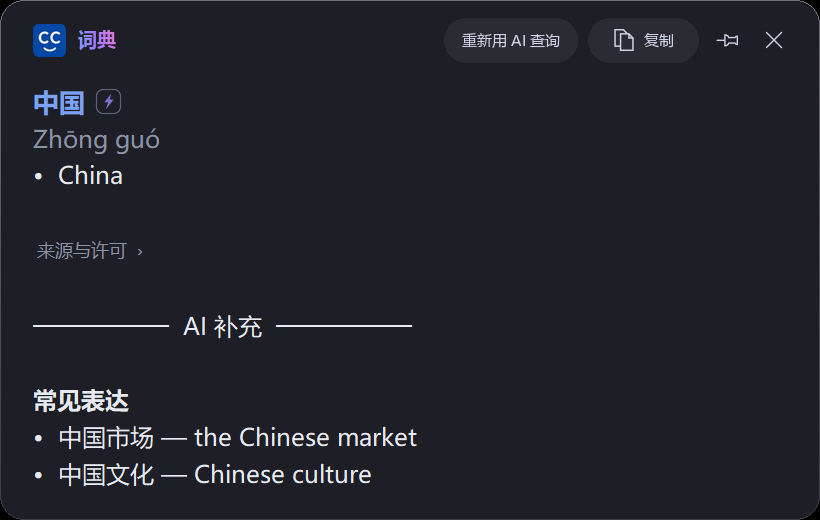
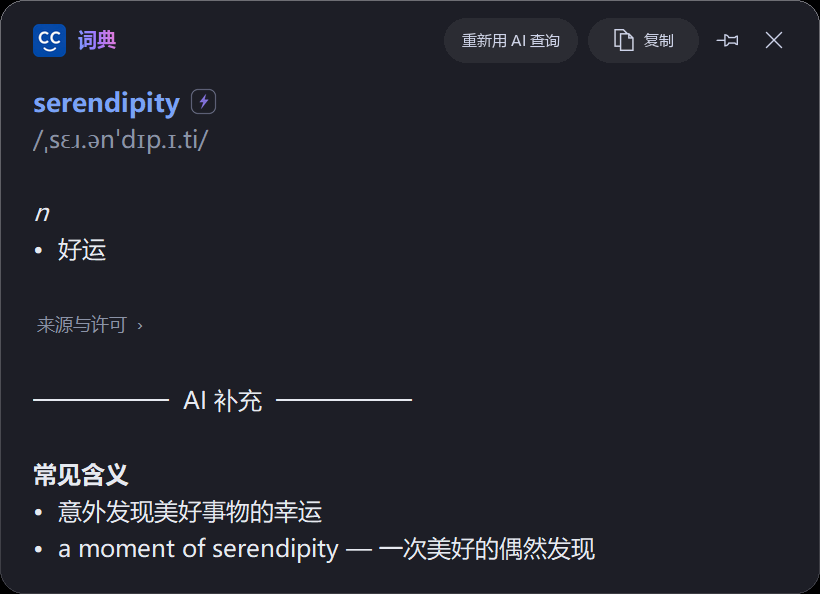
Show selection workflow in README hero

diff --git a/tools/capture_selection_hero.html b/tools/capture_selection_hero.html
@@ -1,0 +1,135 @@
+<!doctype html>
+<html lang="en">
+<head>
+  <meta charset="utf-8">
+  <meta name="viewport" content="width=device-width, initial-scale=1">
+  <title>CC Translate selection demo</title>
+  <style>
+    * { box-sizing: border-box; }
+    html, body {
+      width: 100%;
+      height: 100%;
+      margin: 0;
+      overflow: hidden;
+      font-family: "Segoe UI", Arial, sans-serif;
+      color: #172033;
+      background:
+        radial-gradient(circle at 15% 10%, #dce7ff 0, transparent 34%),
+        linear-gradient(135deg, #f7f9fd, #edf1f8);
+    }
+    .browser {
+      width: calc(100% - 72px);
+      height: calc(100% - 64px);
+      margin: 32px 36px;
+      overflow: hidden;
+      border: 1px solid #d8deea;
+      border-radius: 18px;
+      background: #fff;
+      box-shadow: 0 22px 60px rgba(37, 48, 76, .16);
+    }
+    .chrome {
+      height: 54px;
+      display: flex;
+      align-items: center;
+      gap: 8px;
+      padding: 0 18px;
+      border-bottom: 1px solid #e5e9f1;
+      background: #f6f8fb;
+    }
+    .dot { width: 11px; height: 11px; border-radius: 50%; background: #cfd5e0; }
+    .address {
+      width: 500px;
+      margin-left: 14px;
+      padding: 8px 15px;
+      border: 1px solid #dfe4ed;
+      border-radius: 9px;
+      color: #717b8e;
+      background: #fff;
+      font-size: 13px;
+    }
+    article {
+      width: 760px;
+      margin: 66px auto 0;
+    }
+    .eyebrow {
+      margin-bottom: 16px;
+      color: #5d6b85;
+      font-size: 14px;
+      font-weight: 600;
+      letter-spacing: .08em;
+      text-transform: uppercase;
+    }
+    h1 {
+      margin: 0 0 26px;
+      font-size: 42px;
+      line-height: 1.16;
+      letter-spacing: -.025em;
+    }
+    p {
+      margin: 0 0 22px;
+      color: #43506a;
+      font-size: 21px;
+      line-height: 1.65;
+    }
+    .selected {
+      padding: 2px 3px 4px;
+      color: #fff;
+      background: #356fe4;
+      border-radius: 3px;
+      box-decoration-break: clone;
+      -webkit-box-decoration-break: clone;
+    }
+    .hint {
+      position: absolute;
+      left: 250px;
+      top: 424px;
+      display: flex;
+      align-items: center;
+      gap: 10px;
+      padding: 9px 13px;
+      border: 1px solid #dae1ee;
+      border-radius: 10px;
+      color: #59677f;
+      background: rgba(255, 255, 255, .96);
+      box-shadow: 0 8px 24px rgba(45, 58, 87, .12);
+      font-size: 14px;
+      font-weight: 600;
+    }
+    kbd {
+      padding: 4px 8px;
+      border: 1px solid #cfd7e5;
+      border-bottom-width: 2px;
+      border-radius: 6px;
+      color: #26324a;
+      background: #f8faff;
+      font: 600 13px "Segoe UI", sans-serif;
+    }
+    .cursor {
+      position: absolute;
+      left: 771px;
+      top: 386px;
+      width: 23px;
+      height: 31px;
+      filter: drop-shadow(0 2px 2px rgba(0, 0, 0, .25));
+    }
+  </style>
+</head>
+<body>
+  <main class="browser">
+    <div class="chrome">
+      <span class="dot"></span><span class="dot"></span><span class="dot"></span>
+      <div class="address">docs.example.com/productivity</div>
+    </div>
+    <article>
+      <div class="eyebrow">Productivity guide</div>
+      <h1>Designing software that feels instant</h1>
+      <p>Fast tools respect attention. They keep common actions close and make every state easy to understand.</p>
+      <p><span class="selected">A small change can make the whole workflow feel faster.</span></p>
+    </article>
+  </main>
+  <div class="hint"><kbd>Ctrl+C</kbd><kbd>Ctrl+C</kbd><span>Double-tap to translate selection</span></div>
+  <svg class="cursor" viewBox="0 0 24 32" aria-hidden="true">
+    <path d="M2 1.5v23.8l6.3-5 4.4 9.2 4.1-2-4.3-8.9h8.2z" fill="#fff" stroke="#111827" stroke-width="1.6"/>
+  </svg>
+</body>
+</html>

diff --git a/tools/capture_ui_v2.py b/tools/capture_ui_v2.py
@@ -177,32 +177,32 @@ def synthetic_dictionary_result():
     from cc_dictionary import DictionaryEntry, DictionaryResult, DictionarySense
 
     source = {
-        "source_id": "cc-cedict",
-        "source_label": "CC-CEDICT",
-        "source_version": "2017-04-28",
+        "source_id": "wikdict-eng-zho",
+        "source_label": "WikDict eng-zho",
+        "source_version": "2025.11.21",
         "source_license": "CC BY-SA 3.0 Unported",
     }
     sense = DictionarySense(
-        definition="China",
+        definition="好运",
         provenance="capture-fixture",
         **source,
     )
     entry = DictionaryEntry(
-        headword="中国",
-        language="zh",
-        pronunciation="Zhong1 guo2",
-        part_of_speech=None,
+        headword="serendipity",
+        language="en",
+        pronunciation="/ˌsɛɹ.ənˈdɪp.ɪ.ti/",
+        part_of_speech="n",
         senses=(sense,),
         **source,
     )
     return DictionaryResult(
-        query="中国",
-        normalized_query="中国",
-        headword="中国",
-        pronunciation="Zhong1 guo2",
+        query="serendipity",
+        normalized_query="serendipity",
+        headword="serendipity",
+        pronunciation="/ˌsɛɹ.ənˈdɪp.ɪ.ti/",
         senses=(sense,),
         entries=(entry,),
-        source_ids=("cc-cedict",),
+        source_ids=("wikdict-eng-zho",),
         match_type="exact",
         confidence=1.0,
     )
@@ -376,13 +376,7 @@ def _build_surface(tr, app, surface):
         app.popup = win
         return win
     if surface == "result":
-        message = (
-            "\u4e00\u4e2a\u5c0f\u6539\u52a8\u5c31\u80fd\u8ba9\u6574\u4e2a\u5de5\u4f5c"
-            "\u6d41\u611f\u89c9\u66f4\u5feb\u3002\n\n"
-            "- \u5148\u5904\u7406\u6700\u5e38\u7528\u7684\u8def\u5f84\n"
-            "- \u4fdd\u7559\u6e05\u6670\u7684\u52a0\u8f7d\u548c\u9519\u8bef\u72b6\u6001\n"
-            "- \u7528\u771f\u5b9e\u7a97\u53e3\u9a8c\u8bc1\u6697\u8272\u4e0e\u4eae\u8272\u4e3b\u9898"
-        )
+        message = "一个小改动就能让整个工作流感觉更快。"
         win = app._make_popup(
             message, title=tr.i18n.get("result.title"), highlight=True)
         app.popup = win
@@ -436,19 +430,19 @@ def _build_surface(tr, app, surface):
 
         base = format_dictionary_result(synthetic_dictionary_result())
         supplement = (
-            "**常见表达**\n"
-            "- 中国市场 — the Chinese market\n"
-            "- 中国文化 — Chinese culture"
+            "**常见含义**\n"
+            "- 意外发现美好事物的幸运\n"
+            "- a moment of serendipity — 一次美好的偶然发现"
             if tr.i18n.get_language() == "zh_CN"
             else
-            "**Common phrases**\n"
-            "- 中国市场 — the Chinese market\n"
-            "- 中国文化 — Chinese culture"
+            "**Common meaning**\n"
+            "- A fortunate, unexpected discovery\n"
+            "- a moment of serendipity"
         )
         divider = tr.i18n.get("result.section_divider").format(
             label=tr.i18n.get("result.ai_supplement"))
         app._last_dictionary_local = True
-        app._last_input = "中国"
+        app._last_input = "serendipity"
         app._last_local_dictionary_result = synthetic_dictionary_result()
         win = app._make_popup(
             base + divider + supplement,

diff --git a/tests/test_capture_ui_v2.py b/tests/test_capture_ui_v2.py
@@ -104,9 +104,11 @@ class TestCaptureUiV2(unittest.TestCase):
 
     def test_synthetic_dictionary_result_is_source_grounded(self):
         result = capture.synthetic_dictionary_result()
-        self.assertEqual(result.headword, "中国")
-        self.assertEqual(result.source_ids, ("cc-cedict",))
-        self.assertEqual(result.senses[0].definition, "China")
+        self.assertEqual(result.headword, "serendipity")
+        self.assertEqual(result.source_ids, ("wikdict-eng-zho",))
+        self.assertEqual(result.pronunciation, "/ˌsɛɹ.ənˈdɪp.ɪ.ti/")
+        self.assertEqual(result.entries[0].part_of_speech, "n")
+        self.assertEqual(result.senses[0].definition, "好运")
         self.assertEqual(result.senses[0].provenance, "capture-fixture")
 
     def test_runtime_overrides_force_v2_and_hide_host_state(self):

diff --git a/README.md b/README.md
@@ -9,8 +9,8 @@ A select-and-translate app focused on **high-quality translation**: **double-tap
 ## Screenshots
 
 <p align="center">
-  <img src="docs/screenshots/popup-translate.png" alt="Translation popup" width="520"><br>
-  <sub><b>Double-tap Ctrl+C</b> — select text and the translation pops up next to your cursor</sub>
+  <img src="docs/screenshots/popup-translate.png" alt="Selected text with CC Translate popup" width="760"><br>
+  <sub><b>Select text, then double-tap Ctrl+C</b> — the translation appears next to the selection</sub>
 </p>
 
 <table>
@@ -20,14 +20,14 @@ A select-and-translate app focused on **high-quality translation**: **double-tap
   <sub><b>Code-explanation mode</b>: code isn't force-translated — it's explained in plain language</sub>
 </td>
 <td width="50%" valign="top" align="center">
-  <img src="docs/screenshots/popup-summary.png" alt="Long-text summary" width="420"><br>
-  <sub><b>Long-text summary (Beta)</b>: long text leads with a key-point summary, then the full translation</sub>
+  <img src="docs/screenshots/popup-dict.png" alt="Instant local dictionary result with AI supplement" width="420"><br>
+  <sub><b>Dictionary mode</b>: source-grounded local results appear instantly, followed by an optional AI supplement</sub>
 </td>
 </tr>
 <tr>
 <td width="50%" valign="top" align="center">
-  <img src="docs/screenshots/popup-dict.png" alt="Instant local dictionary result with AI supplement" width="420"><br>
-  <sub><b>Dictionary mode</b>: source-grounded local results appear instantly, followed by an optional AI supplement</sub>
+  <img src="docs/screenshots/popup-summary.png" alt="Long-text summary" width="420"><br>
+  <sub><b>Long-text summary (Beta)</b>: long text leads with a key-point summary, then the full translation</sub>
 </td>
 <td width="50%" valign="top" align="center">
   <img src="docs/screenshots/quick-input.png" alt="Quick input translation" width="420"><br>
@@ -53,8 +53,8 @@ A select-and-translate app focused on **high-quality translation**: **double-tap
 - **Screenshot translation**: press `Win+Shift+C` to drag-select any screen region and translate the text in it; choose between the vision model or an offline local OCR engine
 - **Quick input translation**: with nothing selected, double-tap Ctrl+C to open an input box and type the text you want translated
 - **Code-explanation mode**: local classification distinguishes code, mixed content, and prose before any model call—covering Python, JSON, YAML, and common config structures without an extra AI request. Code is explained instead of force-translated; mixed prose + code is translated while code stays verbatim, and ordinary forms, dates, paths, or sentences containing `foo()` remain text.
-- **Long-text summary (Beta)**: on by default; longer natural-language text leads with a short summary before the full translation, and can be turned off in Labs
 - **Locally accelerated dictionary mode**: optional one-click download in Settings. Once installed and enabled, short English/Chinese terms first query the per-user read-only SQLite database; high-confidence exact, source-provided or reviewed build-time inflection, simplified/traditional, and Unihan character matches appear immediately with a compact lightning badge beside the headword, while disabled/missing/weak/broken-database cases seamlessly use the existing AI dictionary path. No risky runtime stemming is used. Numbered source Pinyin is rendered with standard tone marks, polyphonic Chinese senses are grouped by pronunciation, clearly specialized/verbose senses are placed later, and long entries initially show five senses with an in-place **Show more** control. After an instant local result, an AI supplement adds only missing information in the background without delaying the first paint; cached supplements appear directly, pending state stays subtle, and failures quietly retain the complete local result. Supplements use a separate bounded local cache and never create visible history entries. **Query again with AI** still performs the existing full replacement query. Every local result exposes its source and license details. Local fields and attribution remain source-grounded—no examples, pronunciation, or parts of speech are invented.
+- **Long-text summary (Beta)**: on by default; longer natural-language text leads with a short summary before the full translation, and can be turned off in Labs
 - **Paste as plain text (Beta)**: optionally reserve `Ctrl+Shift+K` to remove clipboard formatting and paste the text immediately; image- and file-only clipboards are left untouched
 - **Rich-text rendering**: the result popup supports lightweight Markdown and colorizes code like a code editor; copied text stays plain
 - **Multiple target languages**: auto-detect CN↔EN, or fix the target to Chinese/English/Japanese/Korean/French/German/Spanish

diff --git a/README.zh.md b/README.zh.md
@@ -9,8 +9,8 @@
 ## 界面预览
 
 <p align="center">
-  <img src="docs/screenshots/popup-translate.png" alt="划词翻译弹窗" width="520"><br>
-  <sub><b>双击 Ctrl+C</b> —— 选中文字，鼠标旁立刻弹出译文</sub>
+  <img src="docs/screenshots/popup-translate.png" alt="选中文字并显示 CC Translate 弹窗" width="760"><br>
+  <sub><b>选中文字，再双击 Ctrl+C</b> —— 译文直接出现在选区旁</sub>
 </p>
 
 <table>
@@ -20,14 +20,14 @@
   <sub><b>代码解释模式</b>：选中代码不硬翻，用中文讲清它做什么</sub>
 </td>
 <td width="50%" valign="top" align="center">
-  <img src="docs/screenshots/popup-summary.png" alt="长文摘要" width="420"><br>
-  <sub><b>长文摘要（Beta）</b>：长文本先给要点摘要，再展示完整译文</sub>
+  <img src="docs/screenshots/popup-dict.png" alt="本地词典即时结果与 AI 补充" width="420"><br>
+  <sub><b>词典模式</b>：有来源的本地释义即时显示，并可在后台补充 AI 信息</sub>
 </td>
 </tr>
 <tr>
 <td width="50%" valign="top" align="center">
-  <img src="docs/screenshots/popup-dict.png" alt="本地词典即时结果与 AI 补充" width="420"><br>
-  <sub><b>词典模式</b>：有来源的本地释义即时显示，并可在后台补充 AI 信息</sub>
+  <img src="docs/screenshots/popup-summary.png" alt="长文摘要" width="420"><br>
+  <sub><b>长文摘要（Beta）</b>：长文本先给要点摘要，再展示完整译文</sub>
 </td>
 <td width="50%" valign="top" align="center">
   <img src="docs/screenshots/quick-input.png" alt="快速输入翻译" width="420"><br>
@@ -53,8 +53,8 @@
 - **截图翻译**：按 `Win+Shift+C` 框选屏幕任意区域，直接翻译图中文字；支持视觉模型或离线本地 OCR
 - **快速输入翻译**：没有选中文字时双击 Ctrl+C，弹出输入框，手动输入要翻译的内容
 - **代码解释模式**：调用模型前先在本地识别代码、图文混排与普通文字，覆盖 Python、JSON、YAML 和常见配置结构，不增加额外 AI 请求。代码不会被硬翻，而是用中文解释用途；文字与代码混排时保留代码原样，普通表单、日期、路径或包含 `foo()` 的句子仍按文字处理。
-- **长文摘要（Beta）**：默认开启；翻译较长的自然语言文本时，先给出一段要点摘要，再展示完整译文，可在「实验室」中关闭
 - **本地加速词典模式**：可在设置中按需一键下载。安装并启用后，中英文短词优先查询当前用户目录中的只读 SQLite。高置信精确匹配、来源明确提供或构建时审核过的英文词形、简繁别名及 Unihan 单字会立即显示，并在词头旁以紧凑的方形闪电徽标标识极速结果；未启用、未安装、弱命中或数据库故障会无缝走原有 AI 词典路径，运行时不做有风险的词干猜测。来源中的数字声调拼音会显示为标准声调符号；中文多音字按读音分组，明确标为冷门或过长的释义后置，长词条首屏显示五条并可原位**展开更多**。本地结果出现后，后台 AI 只补充缺失信息且不延迟首屏；缓存命中直接出现，查询中提示更轻，失败时安静保留完整本地结果。补充结果使用独立、限长的本地缓存，不产生可见历史记录。**重新用 AI 查询**仍保持原有的完整替换查询；每条本地结果都可查看来源与许可。本地字段和署名始终以来源为准，不虚构例句、音标或词性。
+- **长文摘要（Beta）**：默认开启；翻译较长的自然语言文本时，先给出一段要点摘要，再展示完整译文，可在「实验室」中关闭
 - **粘贴为纯文本（Beta）**：可选择用 `Ctrl+Shift+K` 去掉剪贴板格式并立即粘贴；只有图片或文件的剪贴板不会被改动
 - **富文本排版**：结果弹窗支持轻量 Markdown，并像代码编辑器一样对代码分色显示；复制出的仍是纯文本
 - **多目标语言**：自动检测中↔英，或固定译成中/英/日/韩/法/德/西
